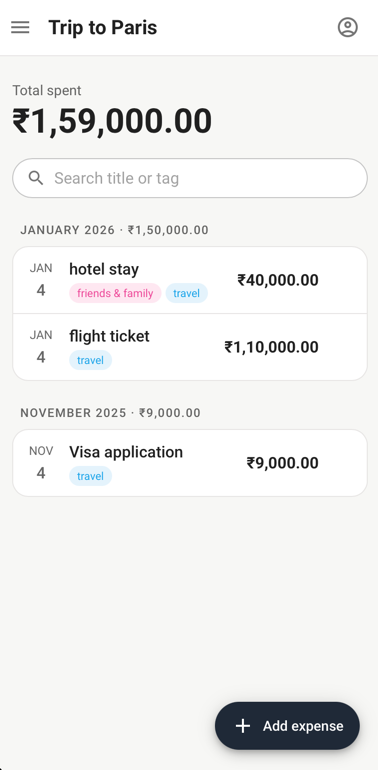
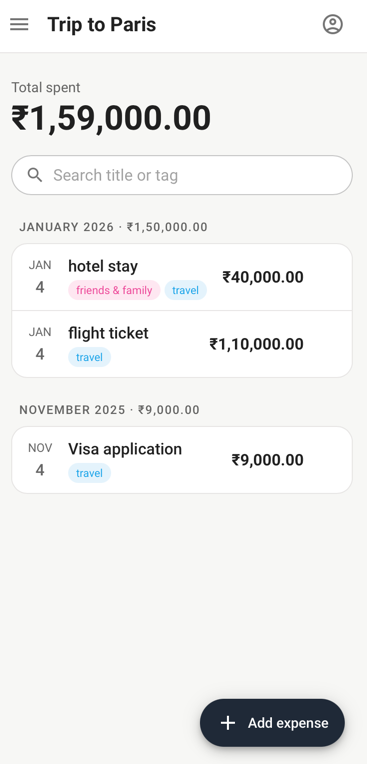
chore : rename project to billbo

diff --git a/web/src/features/groups/GroupSidebar.tsx b/web/src/features/groups/GroupSidebar.tsx
@@ -29,7 +29,7 @@ export function GroupSidebar({groups, selected, tags, selectedTag, onSelect, onA
 }) {
     return (
         <>
-            <Typography variant="h6" fontWeight={700} sx={{px: 2.5, pt: 2.5, pb: 1}}>Expense Manager</Typography>
+            <Typography variant="h6" fontWeight={700} sx={{px: 2.5, pt: 2.5, pb: 1}}>Billbo</Typography>
             <List dense sx={{py: 1}}>
                 <ListItemButton sx={item} selected={selected === null && selectedTag === null} onClick={() => onSelect(null)}>
                     <ListItemIcon sx={{minWidth: 36, color: "text.primary"}}><ReceiptLongIcon fontSize="small"/></ListItemIcon>

diff --git a/web/index.html b/web/index.html
@@ -7,7 +7,7 @@
     <link rel="stylesheet" href="https://fonts.googleapis.com/css2?family=Roboto:wght@400;500;700&display=swap" />
     <meta name="theme-color" content="#1f2937" />
     <link rel="apple-touch-icon" href="/icon-192.png" />
-    <title>Expense Manager</title>
+    <title>Billbo</title>
   </head>
   <body>
     <div id="root"></div>

diff --git a/web/vite.config.ts b/web/vite.config.ts
@@ -9,8 +9,8 @@ export default defineConfig({
     VitePWA({
       registerType: "autoUpdate",
       manifest: {
-        name: "Expense Manager",
-        short_name: "Expenses",
+        name: "Billbo",
+        short_name: "Billbo",
         display: "standalone",
         theme_color: "#1f2937",
         background_color: "#ffffff",

diff --git a/backend/app/main.py b/backend/app/main.py
@@ -9,11 +9,11 @@ from app.api.tags import router as tags_router
 from app.api.users import router as users_router
 from app.core.config import get_settings
 
-api_version = version("personal-expense-manager")
+api_version = version("billbo")
 settings = get_settings()
 
 app = FastAPI(
-    title="Personal Expense Manager API",
+    title="Billbo API",
     version=api_version,
 )
 app.add_middleware(

diff --git a/README.md b/README.md
@@ -1,8 +1,8 @@
-# Personal Expense Manager
+# Billbo
 
 💸 Self-hosted expense manager: track spending by group and tag. FastAPI + React + PostgreSQL, 🐳 Docker-ready.
 
-![Expense Manager showing a group's total spent and its expenses by month](docs/images/web_group_expense.png)
+![Billbo showing a group's total spent and its expenses by month](docs/images/web_group_expense.png)
 
 ## Why
 
